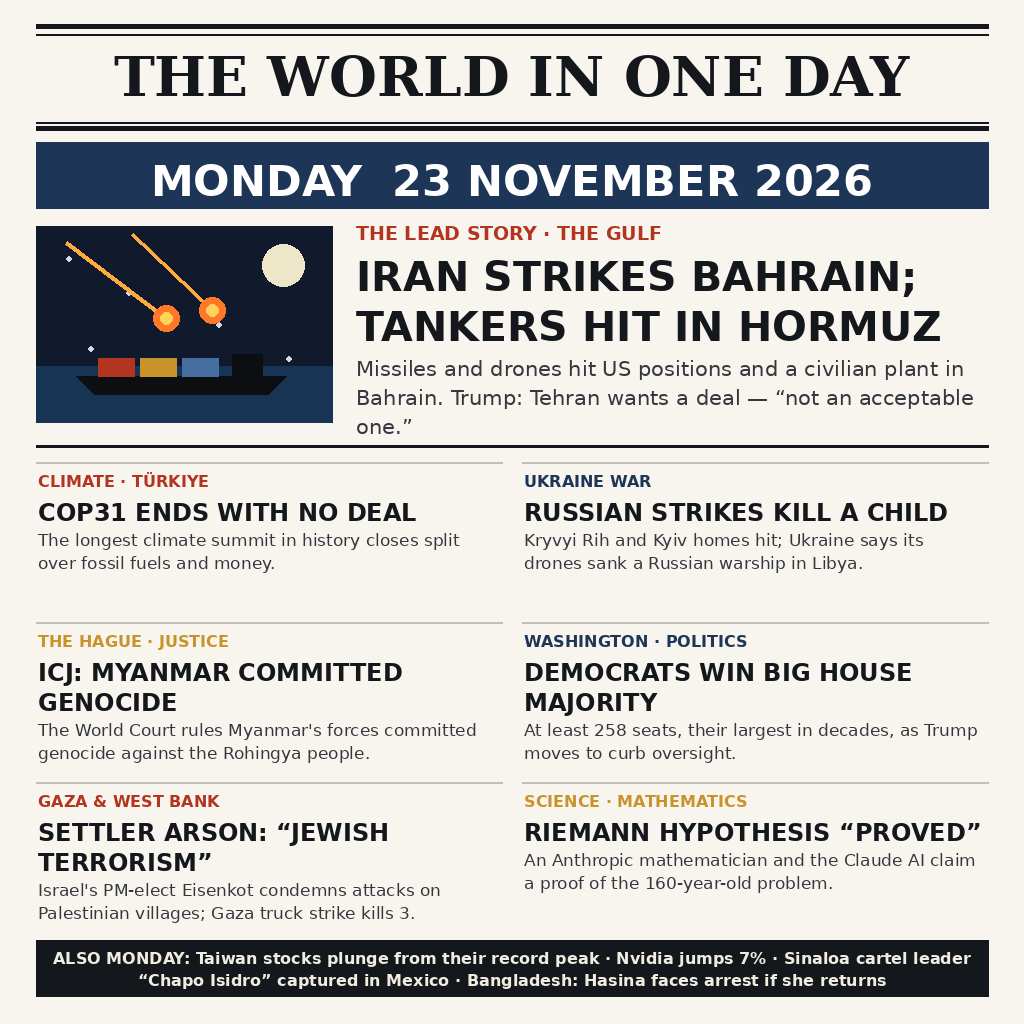
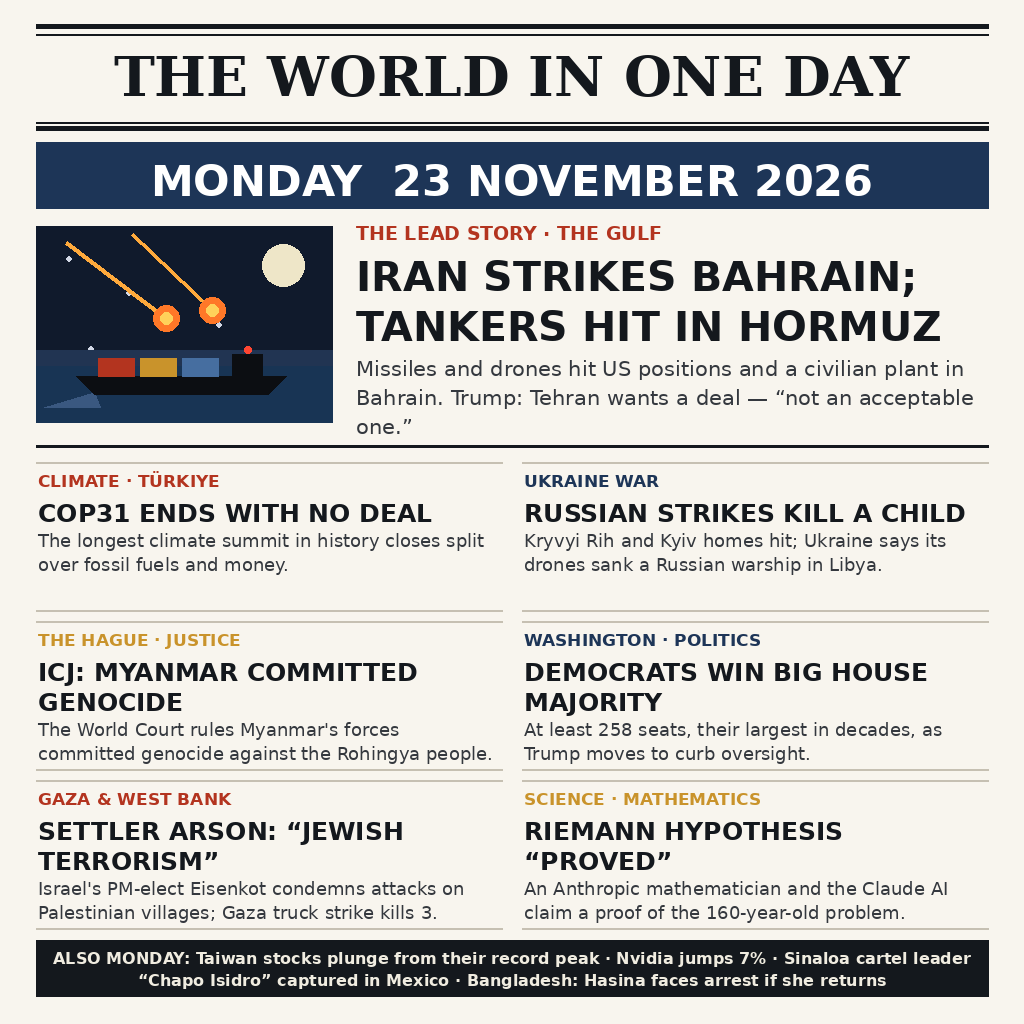
Layout revision: larger panel type in ruled cells; lit horizon, wake and navigation light in the lead illustration

diff --git a/draw.py b/draw.py
@@ -27,6 +27,10 @@ Edition of 23 Nov 2026, Reuters wires and the day's news digests):
 
 Everything is drawn with PIL shapes and real fonts, so every word stays
 crisp - no generated raster text anywhere. Output: entry.png, 1024x1024.
+
+Layout revision (2026-11-23): panel type enlarged and each panel set in
+a ruled cell, and the lead illustration given a lit horizon, a wake and
+a navigation light - all so the page stays legible at thumbnail size.
 """
 
 from PIL import Image, ImageDraw, ImageFont
@@ -92,11 +96,15 @@ d.rectangle([M, LY, M + 296, LY + 196], fill=(16, 26, 44))
 d.ellipse([M + 226, LY + 18, M + 268, LY + 60], fill=(238, 230, 200))  # moon
 for sx, sy in [(30, 30), (90, 64), (180, 96), (52, 120), (250, 130)]:
     d.ellipse([M + sx, LY + sy, M + sx + 5, LY + sy + 5], fill=(210, 216, 230))
-# sea
+# lit horizon band, then the sea
+d.rectangle([M, LY + 124, M + 296, LY + 140], fill=(33, 52, 82))
 d.rectangle([M, LY + 140, M + 296, LY + 196], fill=(24, 52, 84))
+# wake trailing behind the hull
+d.polygon([(M + 58, LY + 166), (M + 8, LY + 181), (M + 64, LY + 181)], fill=(58, 88, 128))
 # tanker hull + bridge + containers
 d.polygon([(M + 40, LY + 150), (M + 250, LY + 150), (M + 232, LY + 168), (M + 58, LY + 168)], fill=(12, 14, 18))
 d.rectangle([M + 196, LY + 128, M + 226, LY + 150], fill=(12, 14, 18))
+d.ellipse([M + 208, LY + 120, M + 215, LY + 127], fill=(255, 70, 50))  # navigation light
 for i, c in enumerate([(179, 52, 31), (201, 147, 43), (70, 110, 160)]):
     d.rectangle([M + 62 + i * 42, LY + 132, M + 98 + i * 42, LY + 150], fill=c)
 # missile trails
@@ -144,19 +152,21 @@ panels = [
 ]
 
 GX, GY = M, 462
-CW, CH = (W - 2 * M - 20) // 2, 148
+CW, CH = (W - 2 * M - 20) // 2, 150
 for i, (kicker, kc, head, sub) in enumerate(panels):
     x = GX + (i % 2) * (CW + 20)
-    y = GY + (i // 2) * (CH + 12)
+    y = GY + (i // 2) * (CH + 9)
+    # ruled cell: top and bottom rules make the grid read as columns
     d.line([(x, y), (x + CW, y)], fill=PANEL_LINE, width=2)
-    d.text((x + 2, y + 10), kicker, font=font(SANS_B, 16), fill=kc)
+    d.line([(x, y + CH - 2), (x + CW, y + CH - 2)], fill=PANEL_LINE, width=2)
+    d.text((x + 2, y + 9), kicker, font=font(SANS_B, 17), fill=kc)
     hy = y + 36
-    for line in wrap(head, font(SANS_B, 24), CW - 4):
-        d.text((x + 2, hy), line, font=font(SANS_B, 24), fill=INK)
+    for line in wrap(head, font(SANS_B, 25), CW - 4):
+        d.text((x + 2, hy), line, font=font(SANS_B, 25), fill=INK)
         hy += 30
-    for line in wrap(sub, font(SANS, 17), CW - 4):
-        d.text((x + 2, hy + 2), line, font=font(SANS, 17), fill=(52, 56, 62))
-        hy += 23
+    for line in wrap(sub, font(SANS, 18), CW - 4):
+        d.text((x + 2, hy + 2), line, font=font(SANS, 18), fill=(52, 56, 62))
+        hy += 24
 
 # ---------------------------------------------------------------- bottom strip
 BY = 940
